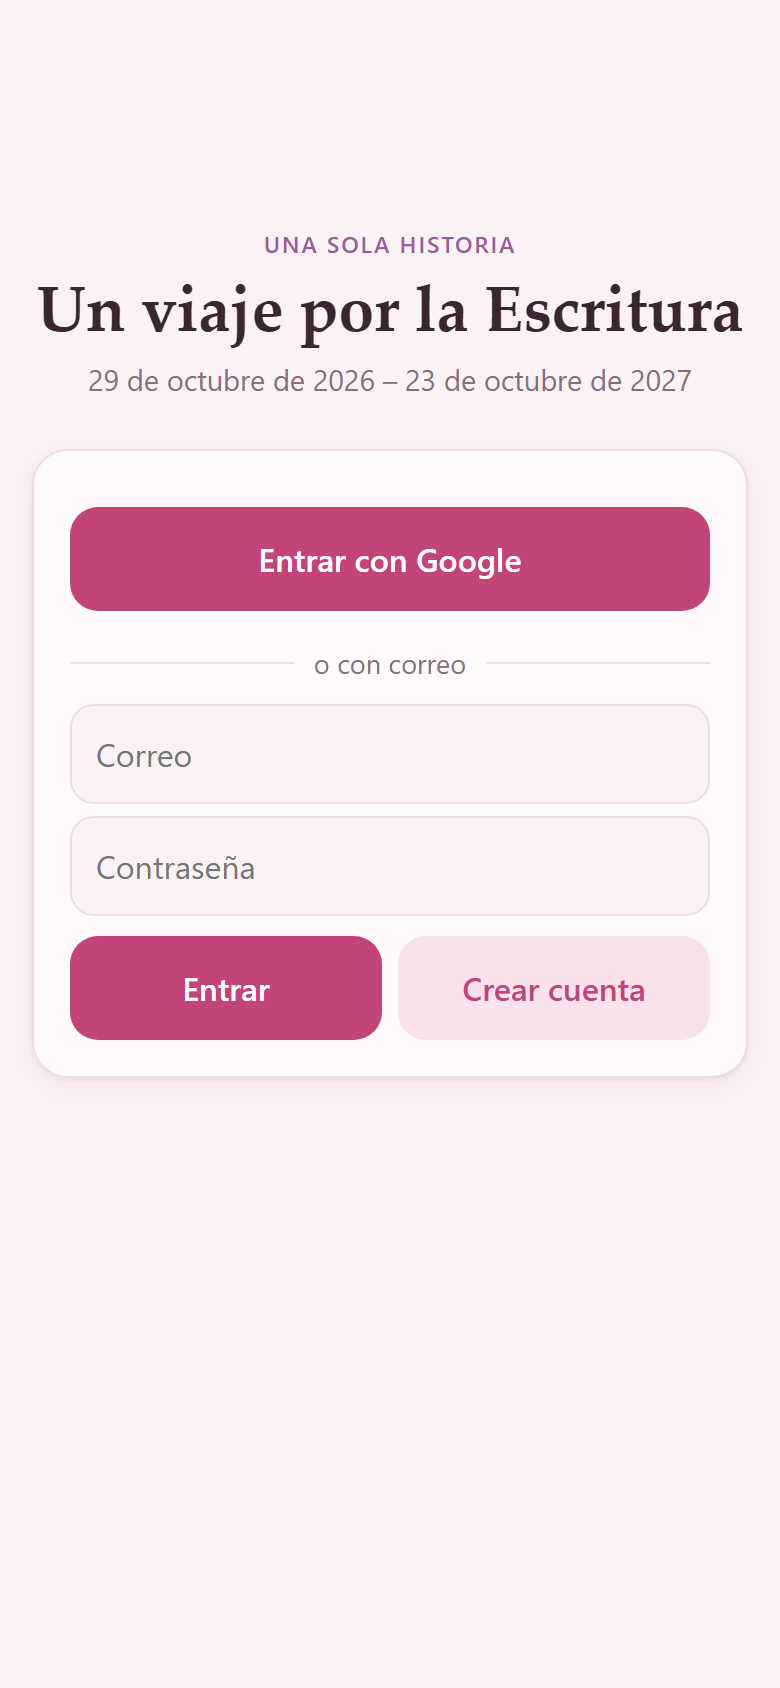
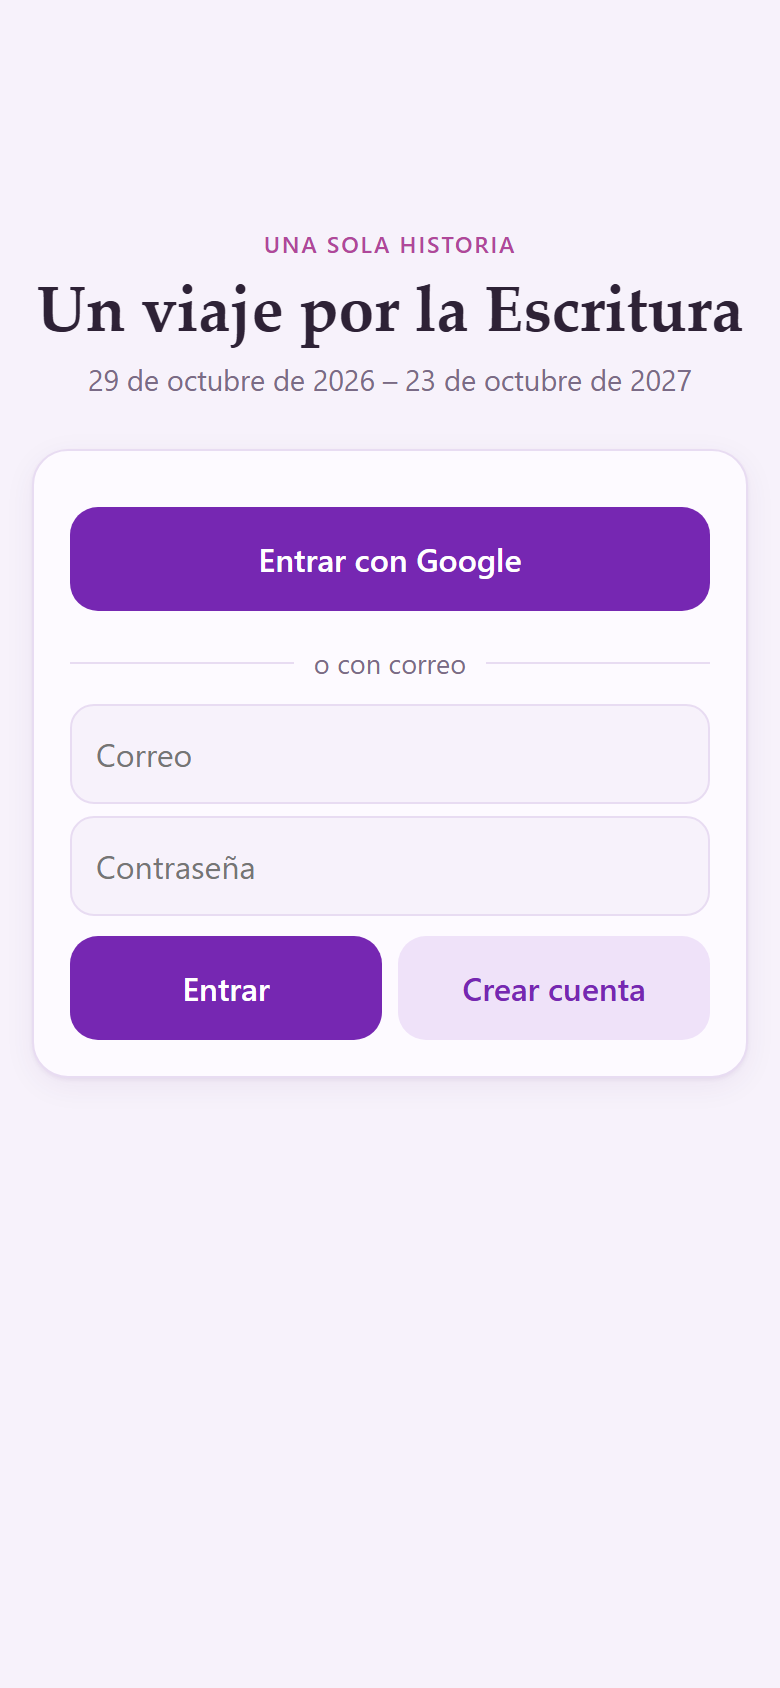
style: paleta morada con base #7627B2

diff --git a/guia/guia.html b/guia/guia.html
@@ -6,8 +6,8 @@
 <style>
   @page { size: letter; margin: 0; }
   :root {
-    --fondo: #fbf2f5; --tarjeta: #fffafc; --texto: #3a2630; --tenue: #8a6f7b;
-    --linea: #f1dce4; --acento: #c2457a; --suave: #fbe1eb; --malva: #9c5b9e;
+    --fondo: #f7f2fb; --tarjeta: #fdfaff; --texto: #2e2236; --tenue: #7a6b86;
+    --linea: #e8dcf2; --acento: #7627b2; --suave: #efe2f9; --malva: #b0479a;
   }
   * { box-sizing: border-box; }
   html { -webkit-print-color-adjust: exact; print-color-adjust: exact; }
@@ -24,7 +24,7 @@
 
   /* Portada */
   .portada { background: var(--fondo); display: flex; flex-direction: column; justify-content: center; text-align: center; }
-  .portada .icono { width: 1.5in; height: 1.5in; border-radius: .34in; margin: 0 auto 26px; box-shadow: 0 8px 30px rgb(194 69 122 / 25%); }
+  .portada .icono { width: 1.5in; height: 1.5in; border-radius: .34in; margin: 0 auto 26px; box-shadow: 0 8px 30px rgb(118 39 178 / 25%); }
   .portada h1 { font-size: 36pt; line-height: 1.1; }
   .portada .sub { font-size: 14pt; color: var(--tenue); margin-top: 10px; }
   .portada .para { margin: 40px auto 0; max-width: 4.8in; background: var(--tarjeta); border: 1px solid var(--linea); border-radius: 18px; padding: 20px 26px; font-size: 12pt; }
@@ -46,7 +46,7 @@
   .compacta .dos { grid-template-columns: 2.05in 1fr; }
   .compacta .dos.inversa { grid-template-columns: 1fr 2.05in; }
   .compacta .telefono { width: 2.05in; }
-  .telefono { width: 2.55in; border-radius: .3in; border: 7px solid #3a2630; overflow: hidden; background: var(--fondo); box-shadow: 0 10px 30px rgb(58 38 48 / 18%); }
+  .telefono { width: 2.55in; border-radius: .3in; border: 7px solid #2e2236; overflow: hidden; background: var(--fondo); box-shadow: 0 10px 30px rgb(46 34 54 / 18%); }
   .telefono img { display: block; width: 100%; }
 
   .nota { background: var(--suave); border-radius: 14px; padding: 12px 16px; margin: 14px 0; }
@@ -87,10 +87,10 @@
   <ol class="pasos">
     <li>Abre <strong>Safari</strong>, que tiene que ser Safari y no Chrome, y entra a <strong>johncaste.github.io/viaje-escritura</strong>.</li>
     <li>Toca el botón <strong>Compartir</strong>
-      <svg class="ios" viewBox="0 0 24 24" fill="none" stroke="#c2457a" stroke-width="2" stroke-linecap="round" stroke-linejoin="round"><path d="M12 3v12"/><path d="M7.5 7.5 12 3l4.5 4.5"/><path d="M8 11H6a1 1 0 0 0-1 1v8a1 1 0 0 0 1 1h12a1 1 0 0 0 1-1v-8a1 1 0 0 0-1-1h-2"/></svg>
+      <svg class="ios" viewBox="0 0 24 24" fill="none" stroke="#7627b2" stroke-width="2" stroke-linecap="round" stroke-linejoin="round"><path d="M12 3v12"/><path d="M7.5 7.5 12 3l4.5 4.5"/><path d="M8 11H6a1 1 0 0 0-1 1v8a1 1 0 0 0 1 1h12a1 1 0 0 0 1-1v-8a1 1 0 0 0-1-1h-2"/></svg>
       (el cuadrito con la flecha hacia arriba, abajo en la pantalla).</li>
     <li>Desliza hacia abajo y elige <strong>Agregar a pantalla de inicio</strong>, luego <strong>Agregar</strong>.</li>
-    <li>Cierra Safari y abre <strong>Viaje</strong> desde el ícono rosa que apareció en tu pantalla de inicio. Usa siempre ese ícono.</li>
+    <li>Cierra Safari y abre <strong>Viaje</strong> desde el ícono morado que apareció en tu pantalla de inicio. Usa siempre ese ícono.</li>
   </ol>
 
   <div class="dos" style="margin-top:10px">
@@ -151,7 +151,7 @@
         <li><b>Leídos:</b> cuántas lecturas llevas marcadas.</li>
         <li><b>Racha:</b> cuántos días seguidos llevas al día. El día de hoy no cuenta en contra mientras no termine.</li>
         <li><b>Atrasados:</b> lecturas de días pasados que aún no marcas.</li>
-        <li><b>Las 52 semanas:</b> cada cuadro es una semana del plan, y entre más rosa, más al día. Los cuadros punteados son semanas que aún no llegan.</li>
+        <li><b>Las 52 semanas:</b> cada cuadro es una semana del plan, y entre más morado, más al día. Los cuadros punteados son semanas que aún no llegan.</li>
       </ul>
     </div>
     <div class="telefono"><img src="img/juntos.png" alt="Pantalla Juntos"></div>

diff --git a/styles.css b/styles.css
@@ -1,40 +1,40 @@
 :root {
-  --fondo: #fbf2f5;
-  --tarjeta: #fffafc;
-  --texto: #3a2630;
-  --tenue: #8a6f7b;
-  --linea: #f1dce4;
-  --acento: #c2457a;
-  --acento-suave: #fbe1eb;
+  --fondo: #f7f2fb;
+  --tarjeta: #fdfaff;
+  --texto: #2e2236;
+  --tenue: #7a6b86;
+  --linea: #e8dcf2;
+  --acento: #7627b2;
+  --acento-suave: #efe2f9;
   --sobre-acento: #ffffff;
-  --oro: #9c5b9e;
-  --alerta: #fde6dc;
-  --n0: #f3e4ea;
-  --n1: #f7cddc;
-  --n2: #ec9fbd;
-  --n3: #d96c98;
-  --n4: #c2457a;
-  --sombra: 0 1px 2px rgb(120 30 70 / 6%), 0 4px 16px rgb(120 30 70 / 6%);
+  --oro: #b0479a;
+  --alerta: #fbeedd;
+  --n0: #ede4f5;
+  --n1: #dcc6ef;
+  --n2: #b98fe0;
+  --n3: #965acb;
+  --n4: #7627b2;
+  --sombra: 0 1px 2px rgb(70 20 110 / 6%), 0 4px 16px rgb(70 20 110 / 6%);
   color-scheme: light;
 }
 
 @media (prefers-color-scheme: dark) {
   :root {
-    --fondo: #1c1418;
-    --tarjeta: #271b21;
-    --texto: #f5e6ec;
-    --tenue: #a98f9a;
-    --linea: #3b2a33;
-    --acento: #f28db5;
-    --acento-suave: #4a2436;
-    --sobre-acento: #2a0e1b;
-    --oro: #d7a8e0;
-    --alerta: #45302b;
-    --n0: #33242c;
-    --n1: #5b2b41;
-    --n2: #8b3d60;
-    --n3: #c55e8b;
-    --n4: #f28db5;
+    --fondo: #17121d;
+    --tarjeta: #211a29;
+    --texto: #f1eaf7;
+    --tenue: #a495b1;
+    --linea: #33283e;
+    --acento: #b98ae6;
+    --acento-suave: #3a2552;
+    --sobre-acento: #1c0d2b;
+    --oro: #e39acb;
+    --alerta: #3d3226;
+    --n0: #2b2235;
+    --n1: #3f2a5a;
+    --n2: #5d3a8a;
+    --n3: #8a5bc0;
+    --n4: #b98ae6;
     --sombra: none;
     color-scheme: dark;
   }

diff --git a/index.html b/index.html
@@ -5,8 +5,8 @@
   <meta name="viewport" content="width=device-width, initial-scale=1, viewport-fit=cover">
   <title>Un viaje por la Escritura</title>
   <meta name="description" content="Nuestro plan de lectura bíblica, juntos.">
-  <meta name="theme-color" content="#fbf2f5" media="(prefers-color-scheme: light)">
-  <meta name="theme-color" content="#1c1418" media="(prefers-color-scheme: dark)">
+  <meta name="theme-color" content="#f7f2fb" media="(prefers-color-scheme: light)">
+  <meta name="theme-color" content="#17121d" media="(prefers-color-scheme: dark)">
   <meta name="apple-mobile-web-app-capable" content="yes">
   <meta name="mobile-web-app-capable" content="yes">
   <meta name="apple-mobile-web-app-status-bar-style" content="default">

diff --git a/sw.js b/sw.js
@@ -1,5 +1,5 @@
 // Sube la versión cada vez que publiques cambios para que los teléfonos tomen la nueva.
-const CACHE = 'viaje-v2';
+const CACHE = 'viaje-v3';
 const BASE = [
   './', 'index.html', 'app.js', 'config.js', 'styles.css', 'plan.json', 'manifest.webmanifest',
   'icons/icon-192.png', 'icons/icon-512.png', 'icons/apple-touch-icon.png',
